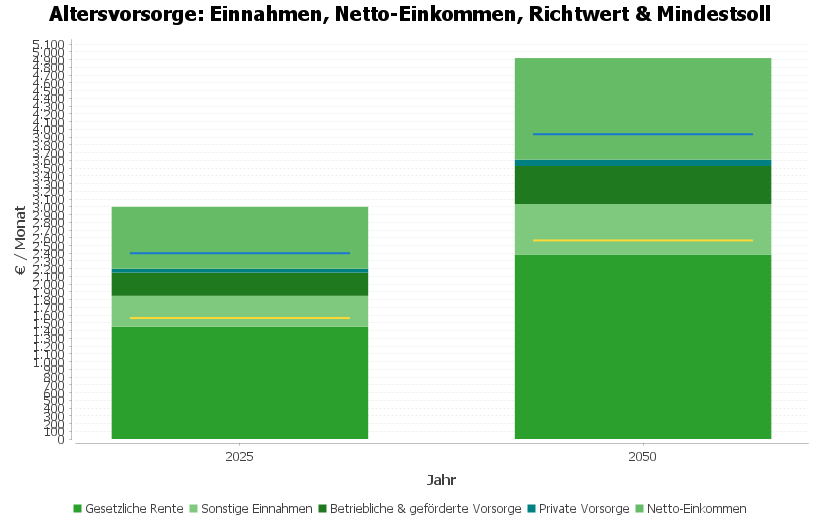
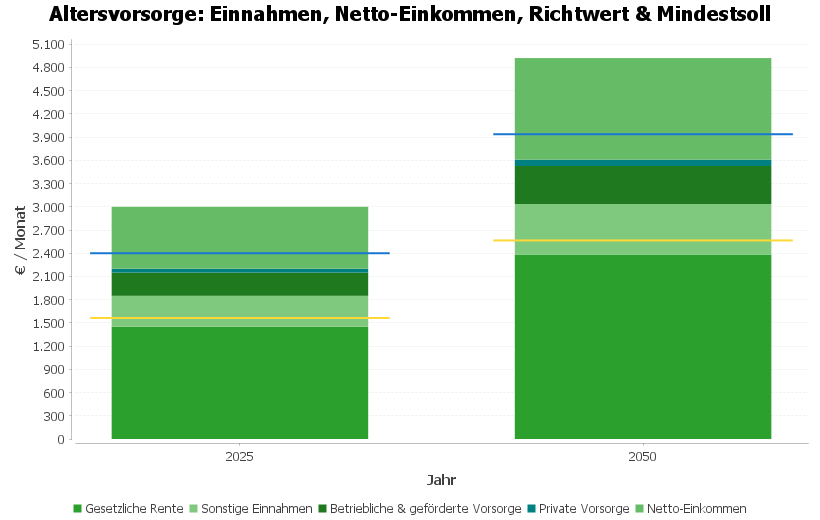
Adjusts chart axis tick units and annotation scaling
Updates the y-axis tick unit from 100 to 300 to improve chart readability.
Increases the scaling factor for annotations to better align with the adjusted axis spacing.

Also updates the static chart image to reflect these changes.

diff --git a/src/main/java/com/dj/retirementanalysis/models/ChartPngBuilder.java b/src/main/java/com/dj/retirementanalysis/models/ChartPngBuilder.java
@@ -165,7 +165,7 @@ public class ChartPngBuilder {
         // Achse: 100er Schritte
         NumberAxis yAxis = (NumberAxis) plot.getRangeAxis();
         yAxis.setAutoRangeIncludesZero(true);
-        yAxis.setTickUnit(new org.jfree.chart.axis.NumberTickUnit(100));
+        yAxis.setTickUnit(new org.jfree.chart.axis.NumberTickUnit(300));
         yAxis.setNumberFormatOverride(new java.text.DecimalFormat("#,##0"));
 
         // Optik
@@ -178,12 +178,12 @@ public class ChartPngBuilder {
         BasicStroke solid2 = new BasicStroke(2f);
 
         // Blaue Linie = Richtwert
-        plot.addAnnotation(new CategoryShortLineAnnotation(J2025, richt25, new Color(25,118,210), solid2, 0.85));
-        plot.addAnnotation(new CategoryShortLineAnnotation(J2050, richt50, new Color(25,118,210), solid2, 0.85));
+        plot.addAnnotation(new CategoryShortLineAnnotation(J2025, richt25, new Color(25,118,210), solid2, 1.16));
+        plot.addAnnotation(new CategoryShortLineAnnotation(J2050, richt50, new Color(25,118,210), solid2, 1.16));
 
         // Gelbe Linie = Mindestsoll (DIN 77230)
-        plot.addAnnotation(new CategoryShortLineAnnotation(J2025, mind25, new Color(253,216,53), solid2, 0.85));
-        plot.addAnnotation(new CategoryShortLineAnnotation(J2050, mind50, new Color(253,216,53), solid2, 0.85));
+        plot.addAnnotation(new CategoryShortLineAnnotation(J2025, mind25, new Color(253,216,53), solid2, 1.16));
+        plot.addAnnotation(new CategoryShortLineAnnotation(J2050, mind50, new Color(253,216,53), solid2, 1.16));
 
         // PNG schreiben
         ChartUtils.saveChartAsPNG(outFile, chart, 820, 520);
